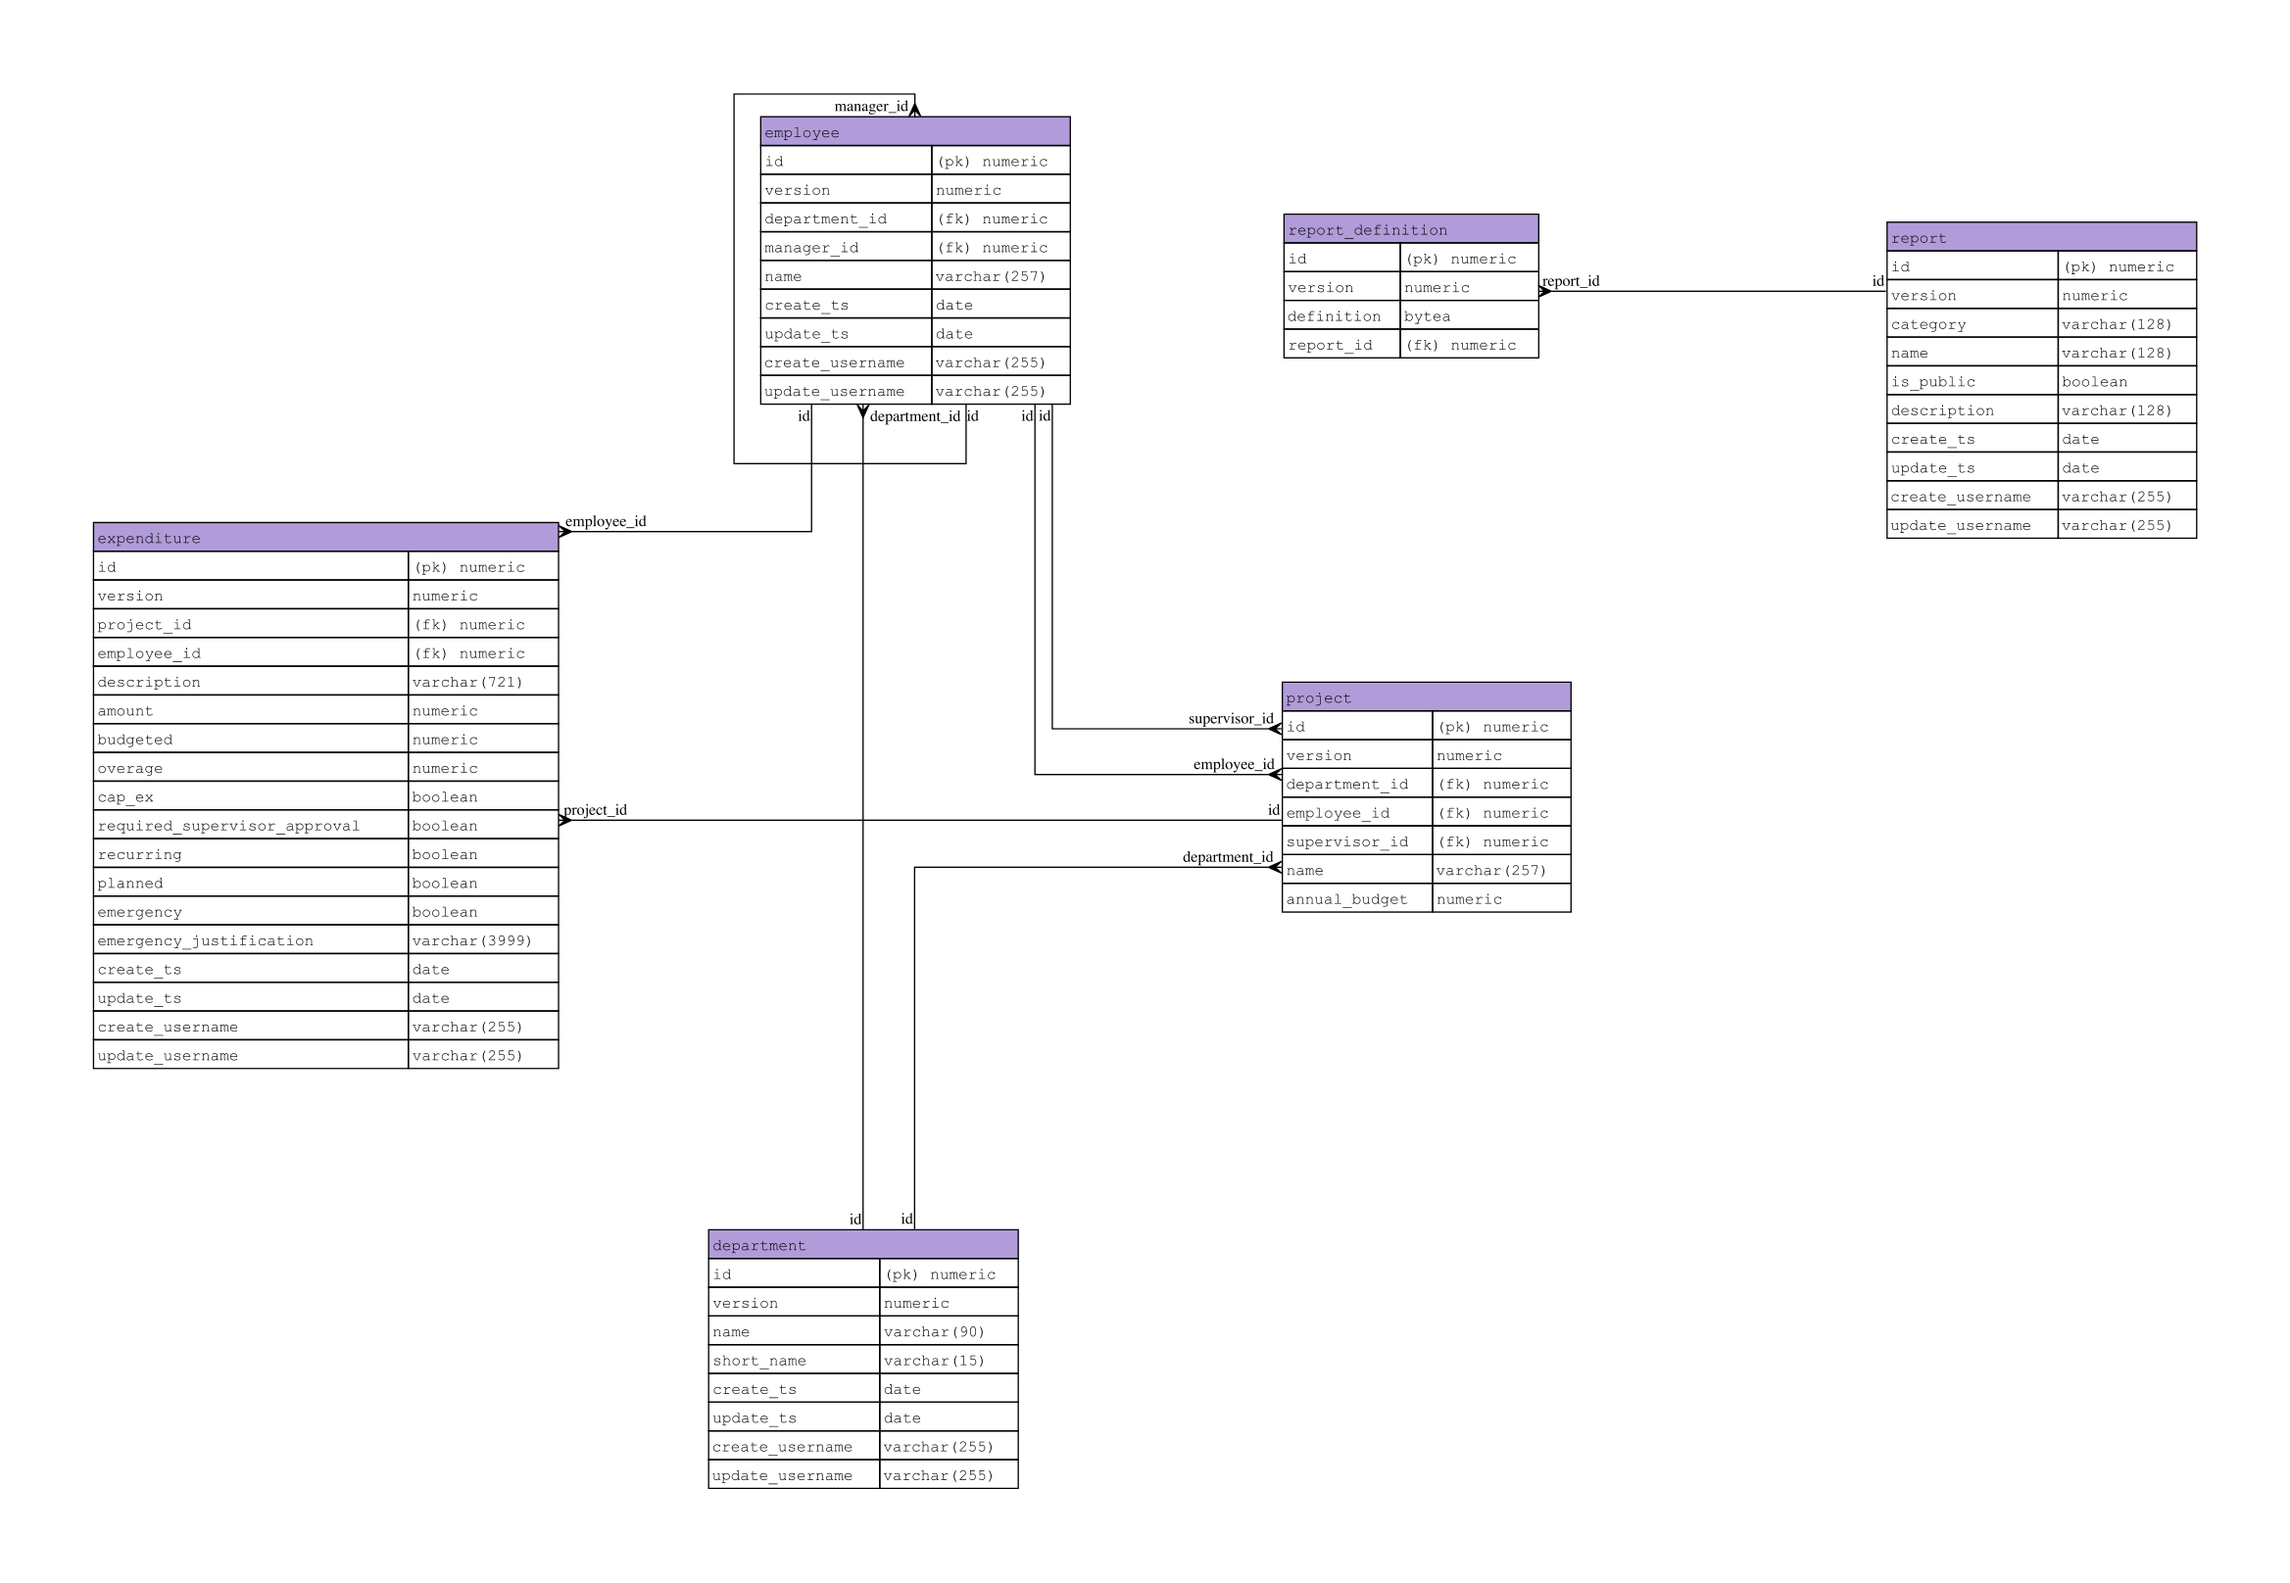
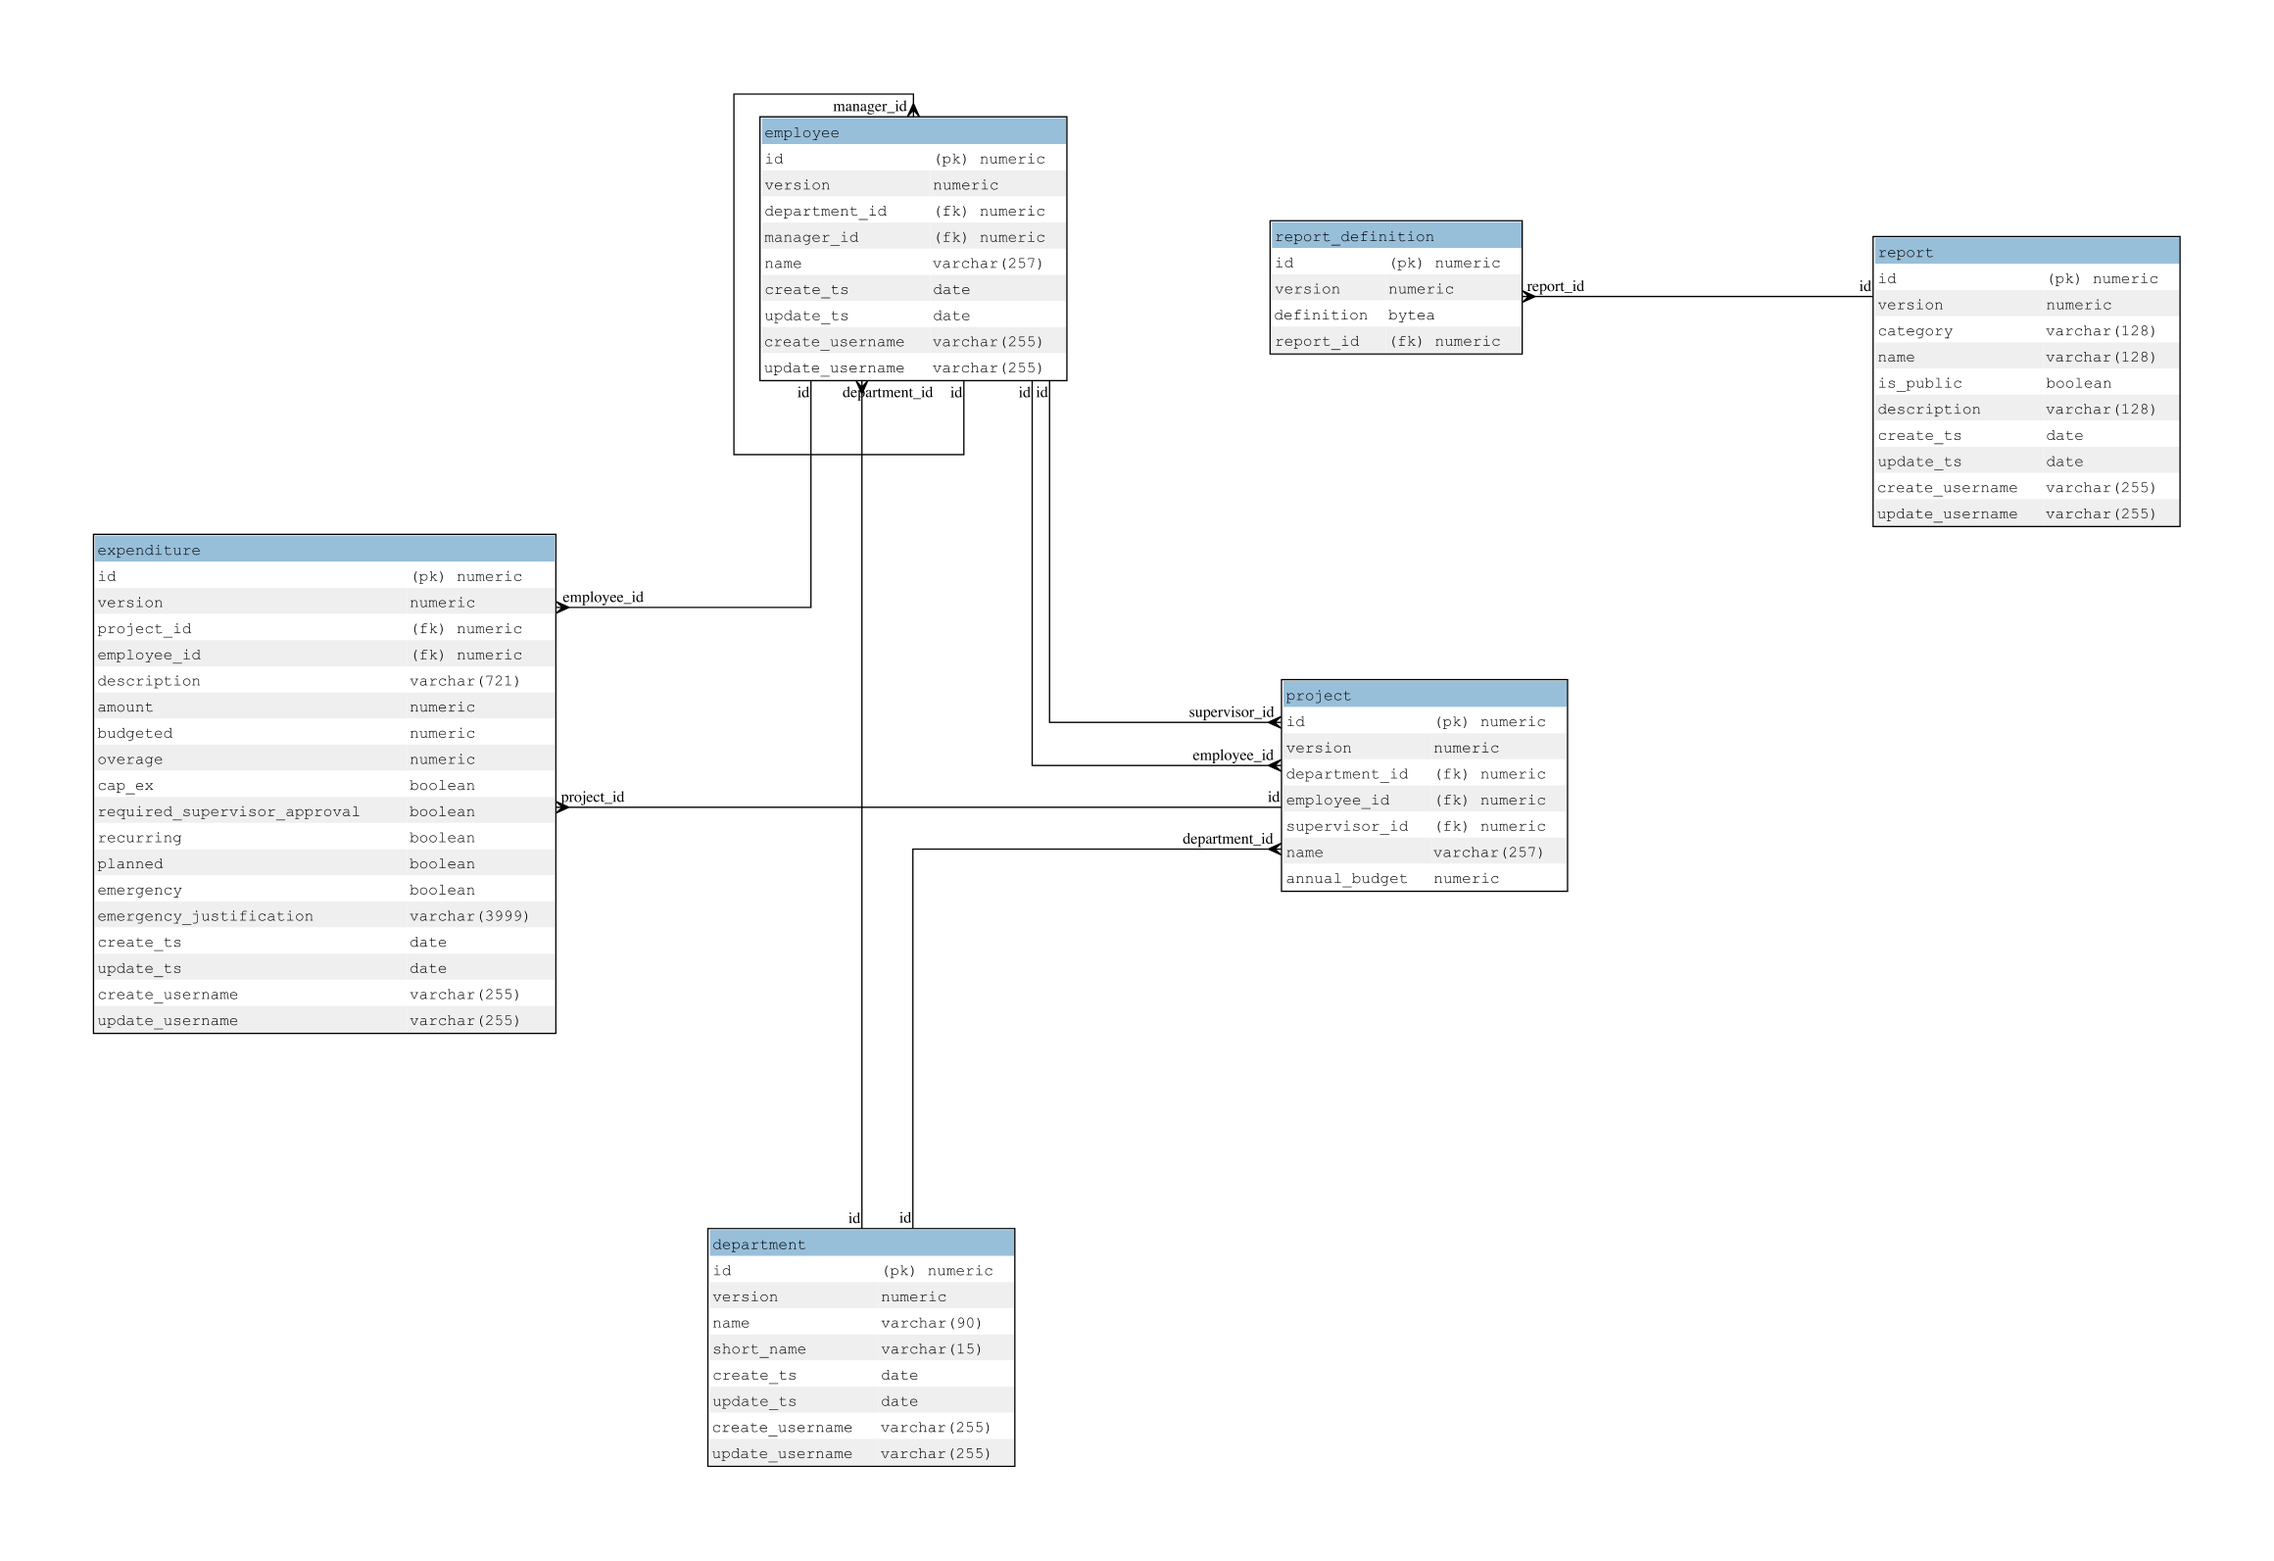
updated to handle windows classpath entries with new deps, screenshot (new color scheme) and deprecated the half hearted classfinder.

diff --git a/src/main/java/net/youngdev/maven/plugins/reporting/JPA2ERDReport.java b/src/main/java/net/youngdev/maven/plugins/reporting/JPA2ERDReport.java
@@ -2,6 +2,7 @@ package net.youngdev.maven.plugins.reporting;
 
 import java.io.ByteArrayOutputStream;
 import java.io.File;
+import java.io.IOException;
 import java.lang.annotation.Annotation;
 import java.lang.reflect.Field;
 import java.lang.reflect.InvocationTargetException;
@@ -19,6 +20,7 @@ import java.util.LinkedHashMap;
 import java.util.List;
 import java.util.Locale;
 import java.util.Map;
+import java.util.Set;
 
 import org.apache.commons.codec.binary.Base64;
 import org.apache.commons.codec.net.URLCodec;
@@ -39,6 +41,8 @@ import org.apache.maven.plugins.annotations.ResolutionScope;
 import org.apache.maven.project.MavenProject;
 import org.apache.maven.reporting.AbstractMavenReport;
 import org.apache.maven.reporting.MavenReportException;
+
+import com.google.common.reflect.ClassPath;
 
 import guru.nidi.graphviz.attribute.Font;
 import guru.nidi.graphviz.engine.Engine;
@@ -83,6 +87,14 @@ public class JPA2ERDReport extends AbstractMavenReport {
 			// defaultValue = "${entityPackage}",
 			required = true)
 	private String entityPackage;
+
+	/**
+	 * Package where you expect to find the entities
+	 */
+	@Parameter(property = "headerColor",
+			defaultValue = "#98BFDA", // mysqlworkbench: #98BFDA, ERMaster: #B19CD9 (purplish) 
+			required = false)
+	private String headerColor;
 
 	/**
 	 * graph engine valid values are DOT, CIRCO, NEATO, TWOPI, PATCHWORK, OSAGE, FDP 
@@ -283,14 +295,27 @@ public class JPA2ERDReport extends AbstractMavenReport {
 	}
 
 	public String generateGraphviz(Log logger, String jpaEntityPackage, List<String> sourceRoots)
-			throws DependencyResolutionRequiredException, MalformedURLException, IllegalAccessException,
-			IllegalArgumentException, InvocationTargetException, NoSuchMethodException, SecurityException {
+			throws DependencyResolutionRequiredException, IllegalAccessException,
+			IllegalArgumentException, InvocationTargetException, NoSuchMethodException, SecurityException, IOException {
 
 		// List<String> sourceRoots = project.getCompileSourceRoots();
 
 		List<Class<?>> classes = new ArrayList<>();
-		classes.addAll(ClassFinder.find(logger, jpaEntityPackage, sourceRoots.get(0), getProjectClassLoader()));
-		Collections.sort(classes, new Comparator<Class<?>>() {
+		
+		ClassLoader cl = getProjectClassLoader();
+		
+		
+	    Set<ClassPath.ClassInfo> classesInPackage = ClassPath.from(cl).getAllClasses();
+
+	    
+		for (ClassPath.ClassInfo cinfo: classesInPackage) {
+			logger.debug("found "+cinfo+ " package name is "+cinfo.getPackageName());
+			if (cinfo.getPackageName().equals(jpaEntityPackage)) {
+				classes.add(cinfo.load());
+			}
+		}
+		logger.info("identified "+ classes.size()+" classes");
+	    Collections.sort(classes, new Comparator<Class<?>>() {
 
 			@Override
 			public int compare(Class<?> left, Class<?> right) {
@@ -325,7 +350,8 @@ public class JPA2ERDReport extends AbstractMavenReport {
 
 		return sb.toString();
 	}
-
+	
+	
 	private String generateTableNode(Log logger, Class<?> c, Map<String, String> references)
 			throws IllegalAccessException, IllegalArgumentException, InvocationTargetException, NoSuchMethodException,
 			SecurityException {
@@ -337,16 +363,16 @@ public class JPA2ERDReport extends AbstractMavenReport {
 		if (StringUtils.isNotEmpty(tableName)) {
 			sb.append(tableName);
 			sb.append(" [label=<\n");
-			sb.append("<table border=\"0\" cellspacing=\"0\" cellborder=\"1\">\n");
-			sb.append("<tr><td bgcolor=\"#B19CD9\" align=\"left\" colspan=\"2\">" + tableName + "</td></tr>\n");
+			sb.append("<table border=\"1\" cellspacing=\"0\" cellborder=\"0\">\n"); //rounded allows bg color to bleed (ie. style=\"rounded\")
+			sb.append("<tr><td bgcolor=\""+headerColor+"\" align=\"left\" colspan=\"2\">" + tableName + "</td></tr>\n");
 			Field[] flds = c.getDeclaredFields();
-
+			int rowIdx = 0;
 			for (Field fld : flds) {
 				if (!Modifier.isStatic(fld.getModifiers()) && !Modifier.isTransient(fld.getModifiers())
 						&& !Collection.class.isAssignableFrom(fld.getType())
 						&& hasAnyOfAnnotation(c, fld, "javax.persistence.Column", "javax.persistence.JoinColumn")) {
-					sb.append(buildNodeRowMarkup(c, tableName, fld, references));
-
+					sb.append(buildNodeRowMarkup(c, tableName, fld, references, rowIdx));
+					rowIdx++;
 				}
 			}
 			sb.append("</table>>];\n\n");
@@ -366,9 +392,11 @@ public class JPA2ERDReport extends AbstractMavenReport {
 		return foundAny;
 	}
 
-	private Object buildNodeRowMarkup(Class<?> c, String tableName, Field fld, Map<String, String> references)
+	private String buildNodeRowMarkup(Class<?> c, String tableName, Field fld, Map<String, String> references, int rowIdx)
 			throws IllegalArgumentException, InvocationTargetException, NoSuchMethodException, SecurityException,
 			IllegalAccessException {
+		
+		String bgcolor = ((rowIdx % 2==0)?"#ffffff":"#efefef");
 		StringBuilder sb = new StringBuilder();
 		sb.append("<tr ");
 		Annotation col = ReflexiveAnnotationUtils.getAnnotationForBeanProperty(c, fld.getName(),
@@ -381,7 +409,7 @@ public class JPA2ERDReport extends AbstractMavenReport {
 					"javax.persistence.JoinColumn");
 			if (join != null) {
 				port = (String)join.annotationType().getMethod("name").invoke(join);
-				sb.append(" PORT=\"" + port  + "\"><td align=\"left\">"
+				sb.append(" PORT=\"" + port  + "\"><td align=\"left\" bgcolor=\""+bgcolor+"\">"
 						+ join.annotationType().getMethod("name").invoke(join) + "</td>");
 				String refTable = (String) ReflexiveAnnotationUtils.getAnnotationPropertyForClass(fld.getType(),
 						"javax.persistence.Table", "name");
@@ -391,11 +419,11 @@ public class JPA2ERDReport extends AbstractMavenReport {
 			}
 		} else {
 			port = (String)col.annotationType().getMethod("name").invoke(col);
-			sb.append(" PORT=\"" + port  + "\"><td align=\"left\">"
+			sb.append(" PORT=\"" + port  + "\"><td align=\"left\" bgcolor=\""+bgcolor+"\">"
 					+ col.annotationType().getMethod("name").invoke(col) + "</td>");
 
 		}
-		sb.append("<td align=\"left\">" + StringUtils.trim(buildTypeDef(c, fld)) + "</td>");
+		sb.append("<td align=\"left\" bgcolor=\""+bgcolor+"\">" + StringUtils.trim(buildTypeDef(c, fld)) + "</td>");
 		sb.append("</tr>\n");
 		return sb.toString();
 	}
@@ -507,13 +535,13 @@ public class JPA2ERDReport extends AbstractMavenReport {
 	private ClassLoader getProjectClassLoader() throws DependencyResolutionRequiredException, MalformedURLException {
 		List<String> classPath = new ArrayList<String>();
 		classPath.addAll(classpathElements);
-		getLog().info("Adding output dir to classpath = " + project.getBuild().getOutputDirectory());
+		getLog().debug("Adding output dir to classpath = " + project.getBuild().getOutputDirectory());
 		classPath.add(project.getBuild().getOutputDirectory());
 
 		URL[] urls = new URL[classPath.size()];
 		int i = 0;
 		for (String entry : classPath) {
-			getLog().debug("use classPath entry " + entry);
+			getLog().info("use classPath entry " + entry);
 			urls[i] = new File(entry).toURI().toURL();
 			i++; // Important
 		}
